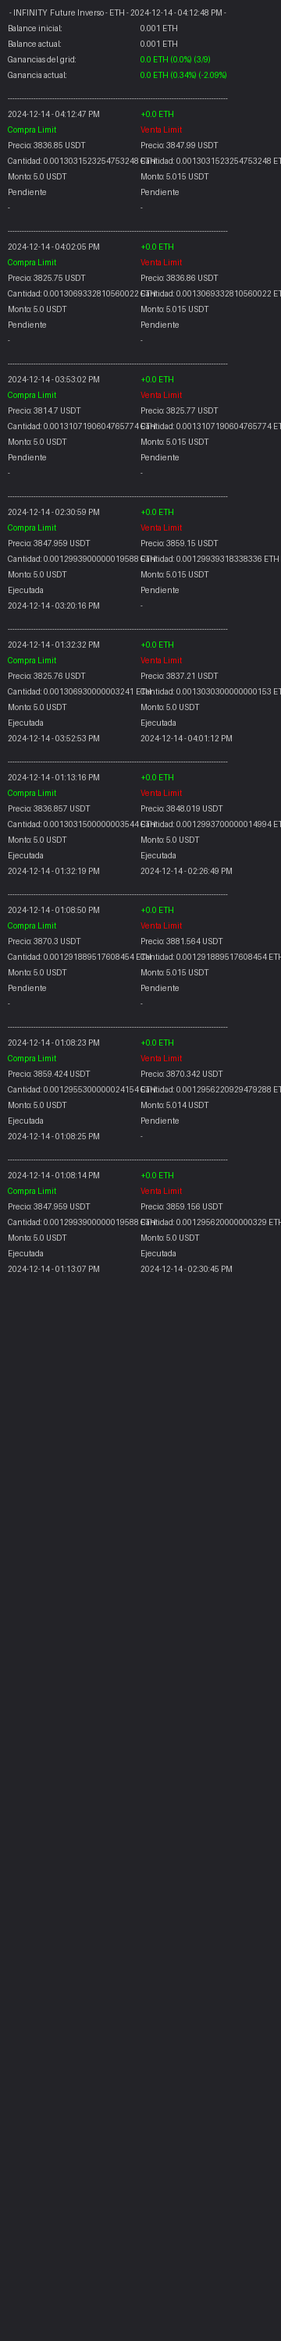
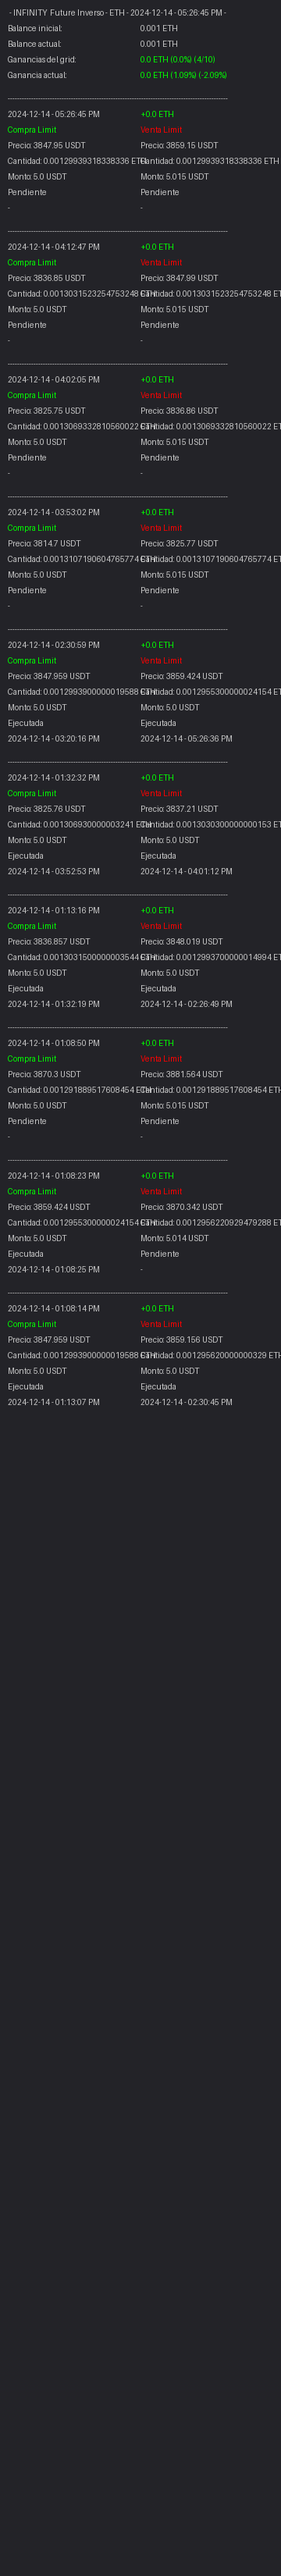
.

diff --git a/future/estrategias/infinity/infinity_2.0.py b/future/estrategias/infinity/infinity_2.0.py
@@ -1592,18 +1592,22 @@ def imprimir_parejas():
     try:
         parejas_long = copy.deepcopy(parejas_compra_venta)
         parejas_short = copy.deepcopy(parejas_compra_venta_short)
+        monitor = cuenta
         
         while iniciar_estrategia:
 
             # Mostrar parejas Long
-            if parejas_compra_venta != parejas_long:
+            if parejas_compra_venta != parejas_long or not(cuenta*0.998 < monitor < cuenta*1.001):
                 parejas_long = parejas_compra_venta.copy()
+                monitor = cuenta
                 mostrar_lista(parejas_compra_venta)
             
             # Mostrar parejas Short
-            if parejas_compra_venta_short != parejas_short:
+            if parejas_compra_venta_short != parejas_short or not(cuenta*0.998 < monitor < cuenta*1.001):
                 parejas_short = parejas_compra_venta_short.copy()
+                monitor = cuenta
                 mostrar_lista(parejas_compra_venta_short)
+
 
     except Exception as e:
         print("ERROR EN LA FUNCIÓN imprimir_parejas()")
